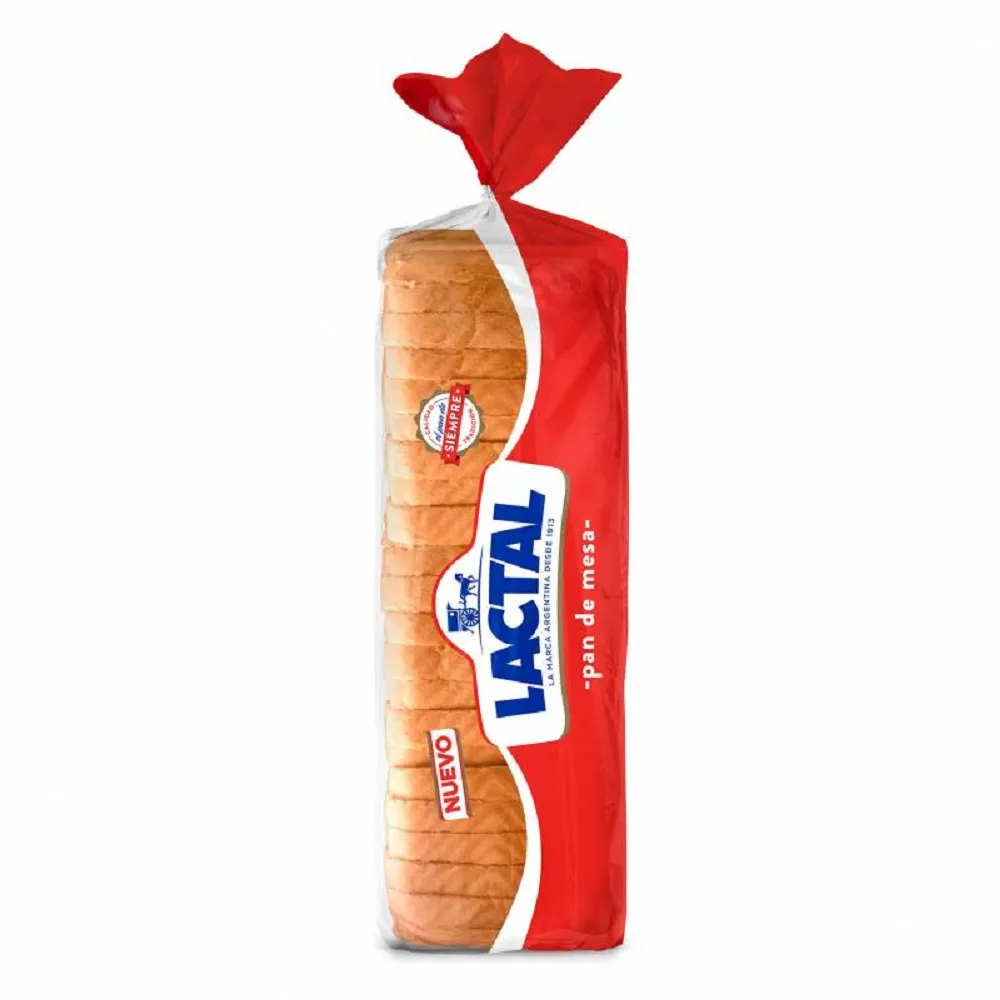
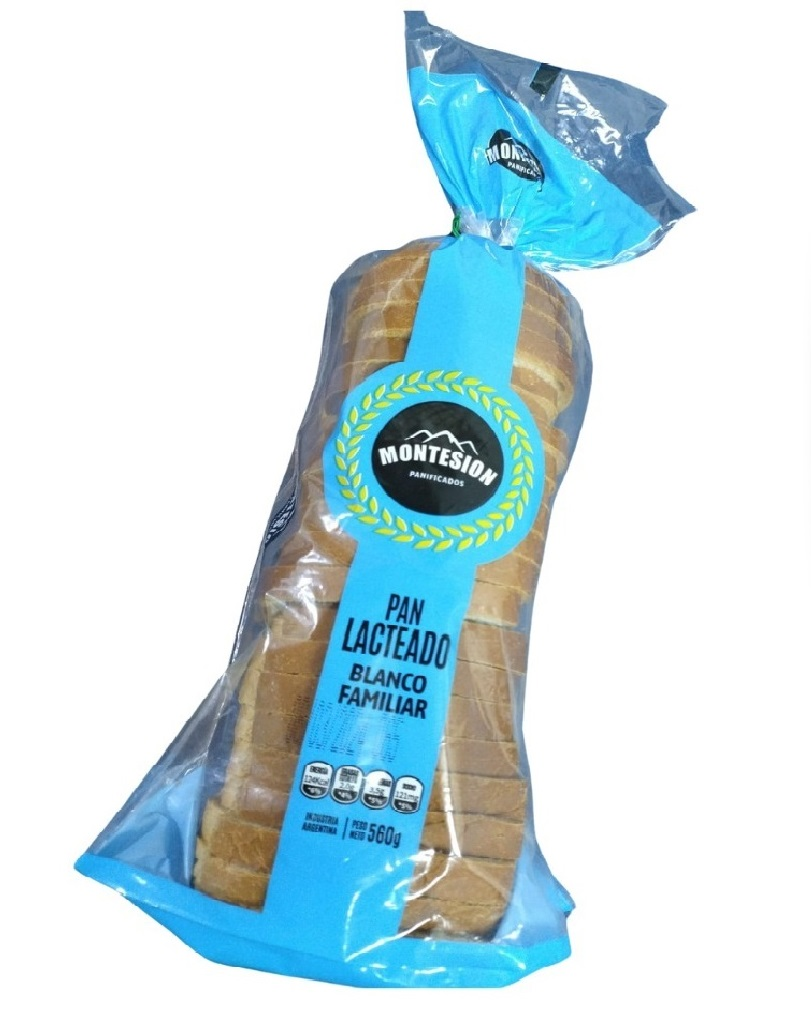
cambio 22 horas

diff --git a/js/script.js b/js/script.js
@@ -81,7 +81,7 @@ const productos = [
         precio: "$1100.00"
     },
     {
-        nombre: "Pan lactal x560Grs",
+        nombre: "Pan lactal ''Montesion'' x560Grs",
         imagen: "imagenes/17.jpg",
         precio: "$2500.00"
     },
